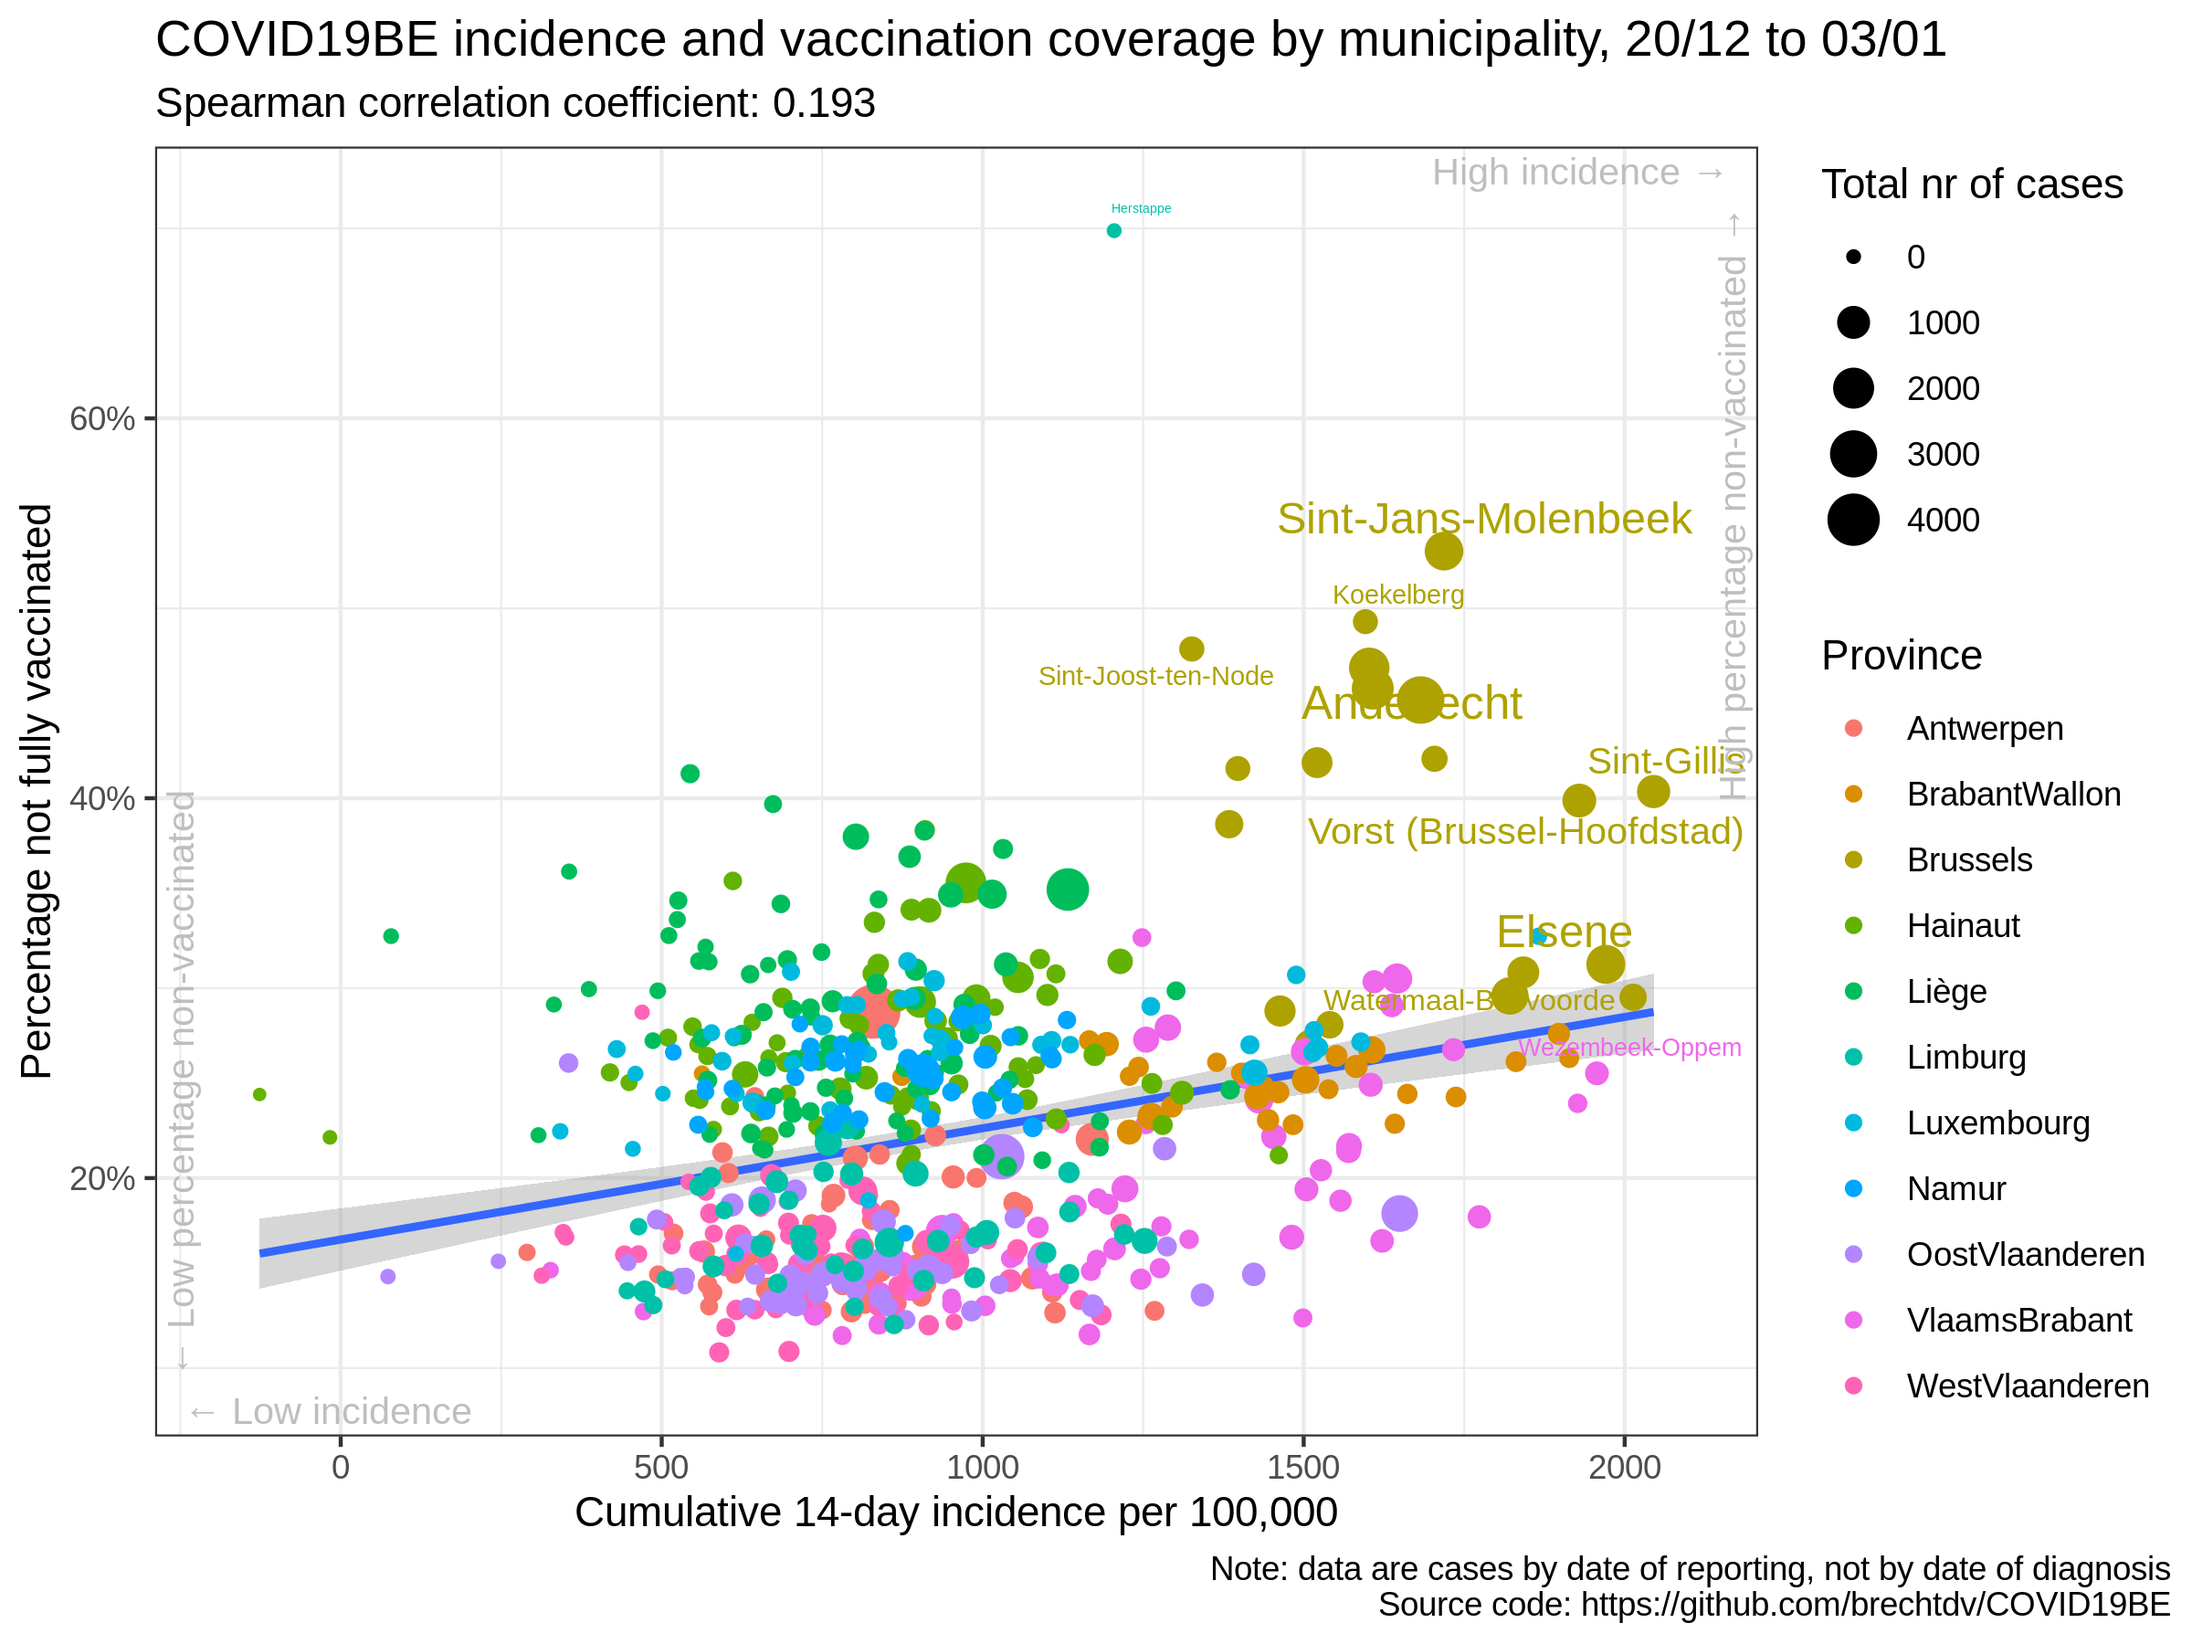
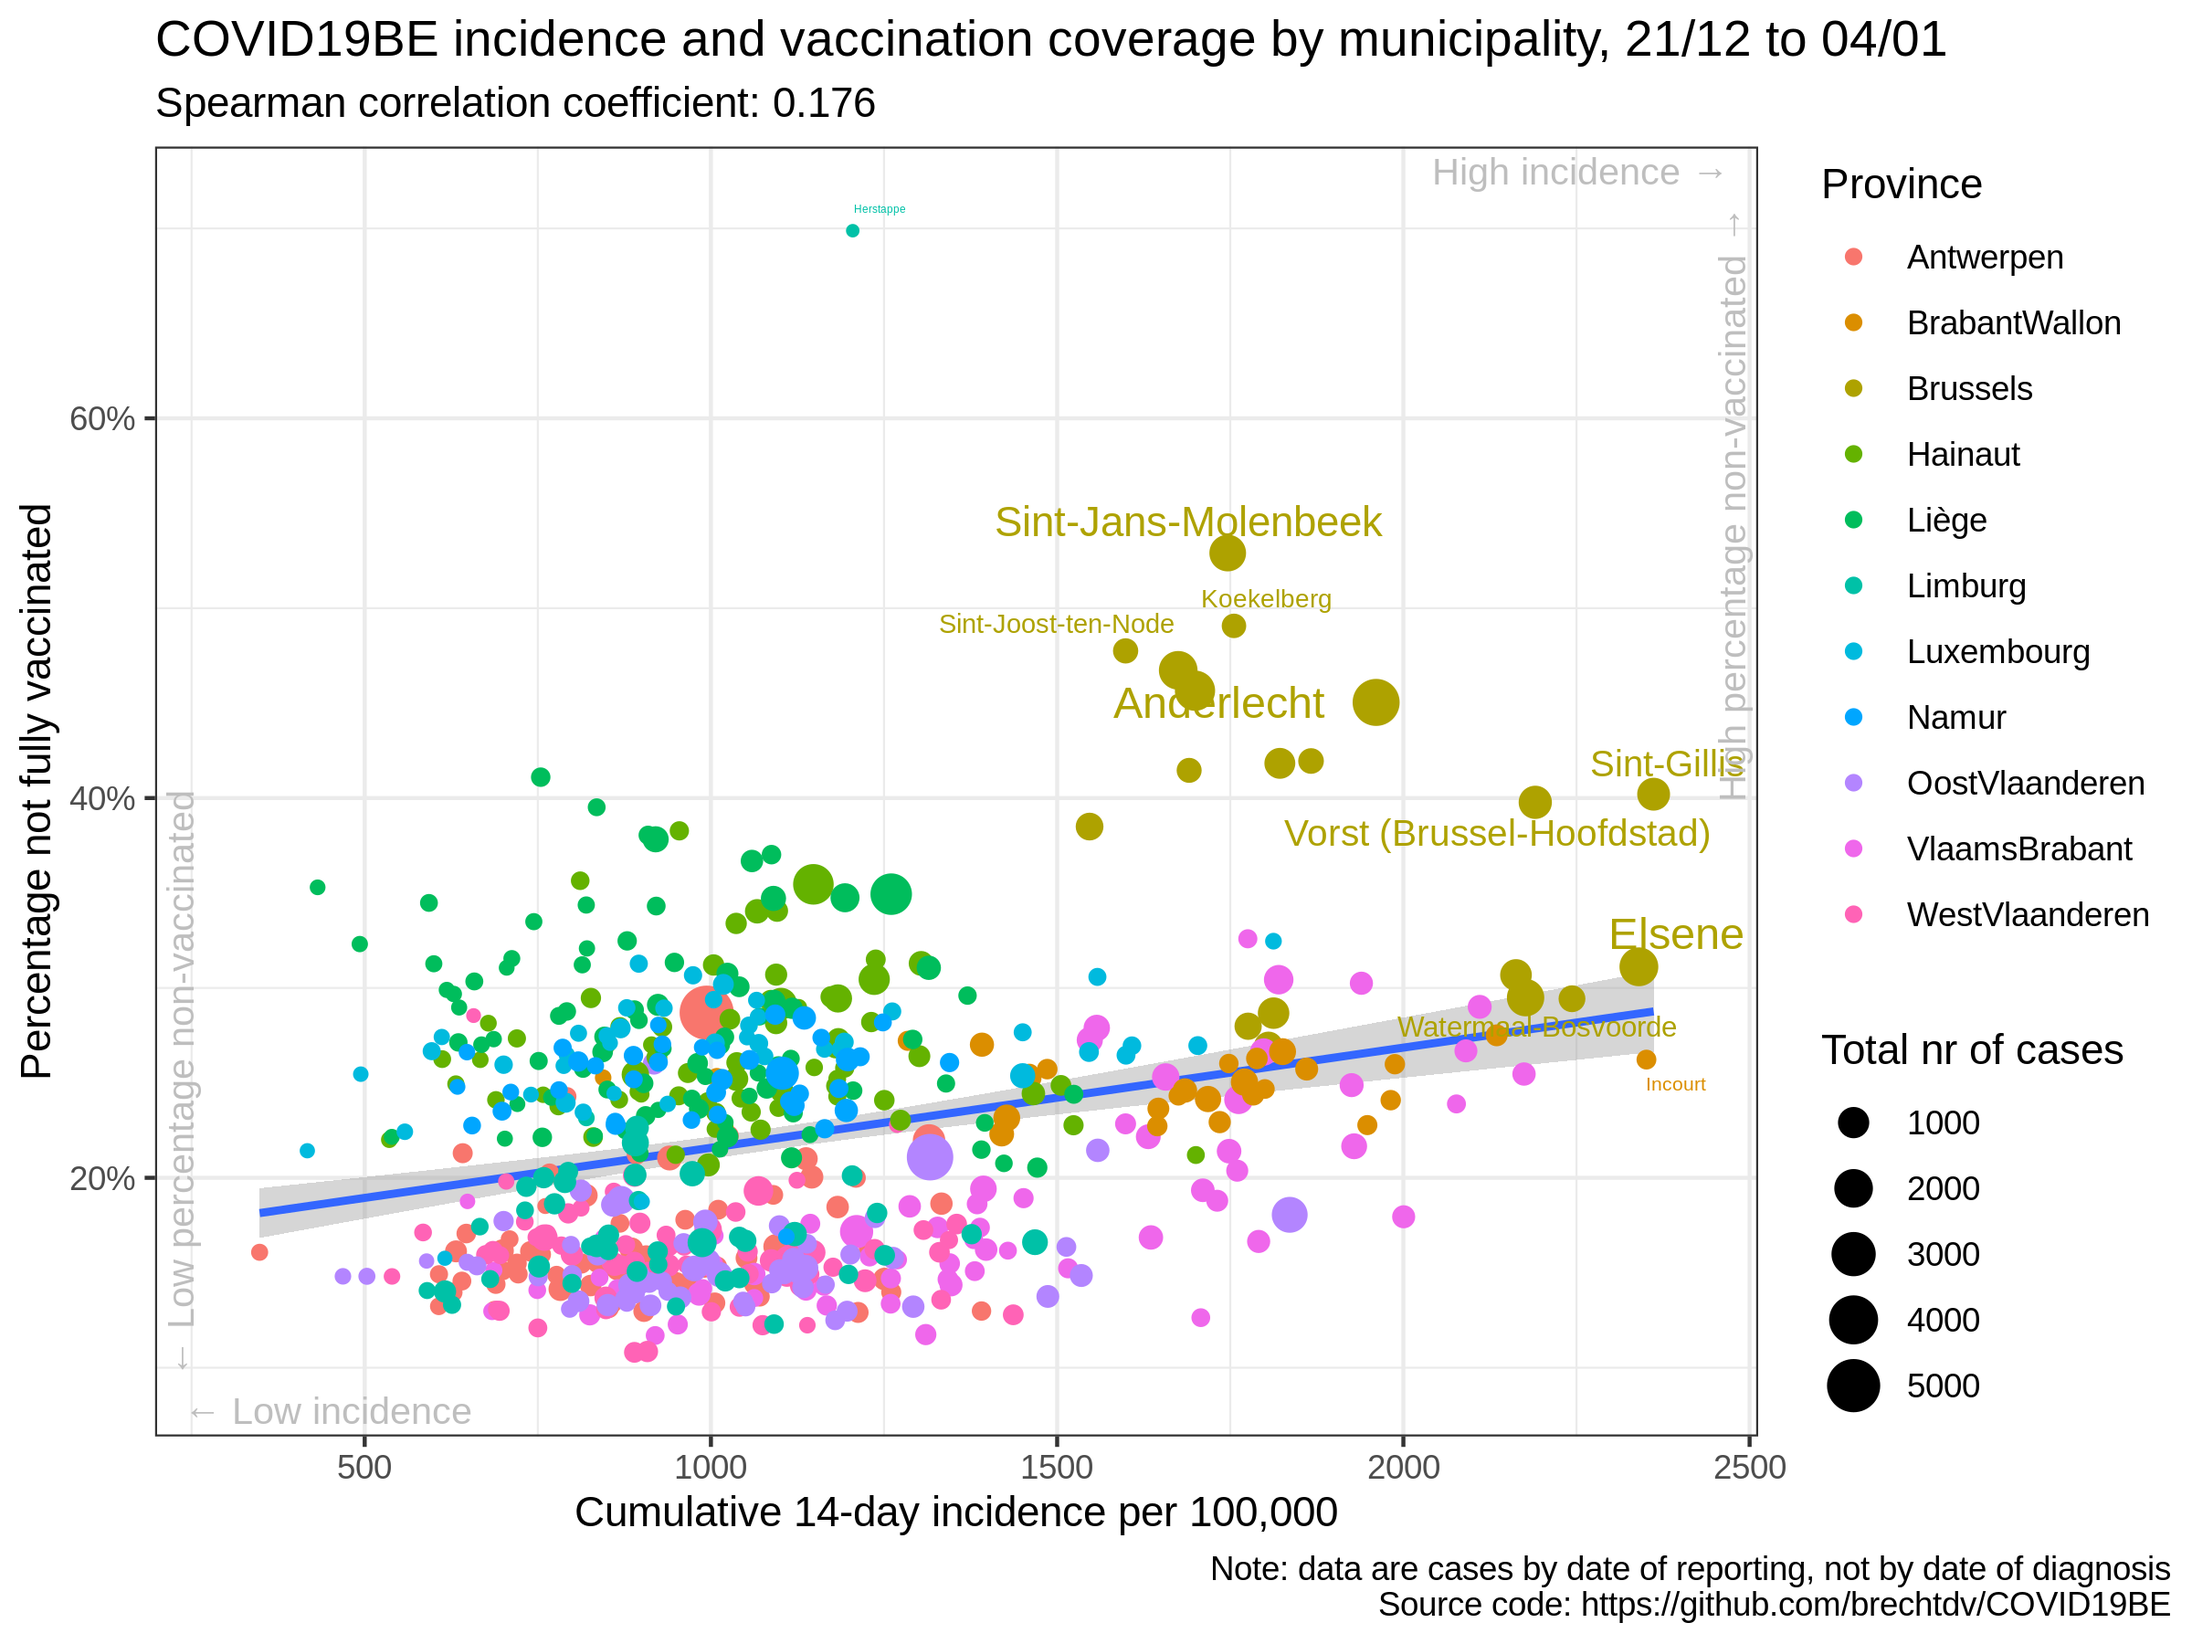
update situation

diff --git a/vaccination/README.md b/vaccination/README.md
@@ -13,18 +13,18 @@
 
 |                | estimate.rho | p.value |
 | :------------- | -----------: | ------: |
-| Antwerpen      |        0.067 |   0.586 |
-| BrabantWallon  |        0.076 |   0.707 |
-| Brussels       |      \-0.089 |   0.716 |
-| Hainaut        |        0.146 |   0.232 |
-| Liège          |      \-0.154 |   0.163 |
-| Limburg        |        0.122 |   0.440 |
-| Luxembourg     |        0.384 |   0.010 |
-| Namur          |        0.135 |   0.418 |
-| OostVlaanderen |        0.053 |   0.687 |
-| VlaamsBrabant  |        0.701 |   0.000 |
-| WestVlaanderen |      \-0.182 |   0.151 |
-| Belgium        |        0.193 |   0.000 |
+| Antwerpen      |        0.115 |   0.345 |
+| BrabantWallon  |        0.146 |   0.466 |
+| Brussels       |      \-0.419 |   0.075 |
+| Hainaut        |        0.109 |   0.370 |
+| Liège          |      \-0.263 |   0.016 |
+| Limburg        |        0.058 |   0.715 |
+| Luxembourg     |        0.420 |   0.005 |
+| Namur          |        0.127 |   0.444 |
+| OostVlaanderen |        0.083 |   0.527 |
+| VlaamsBrabant  |        0.744 |   0.000 |
+| WestVlaanderen |      \-0.106 |   0.403 |
+| Belgium        |        0.176 |   0.000 |
 
 ### Data source
 
